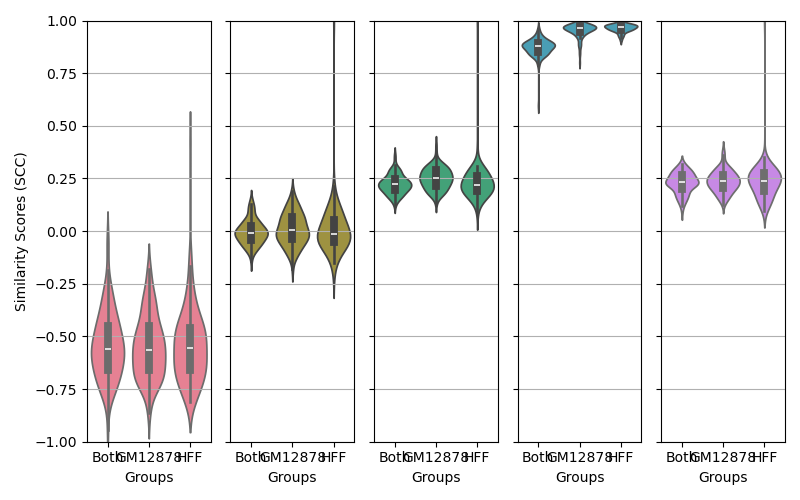
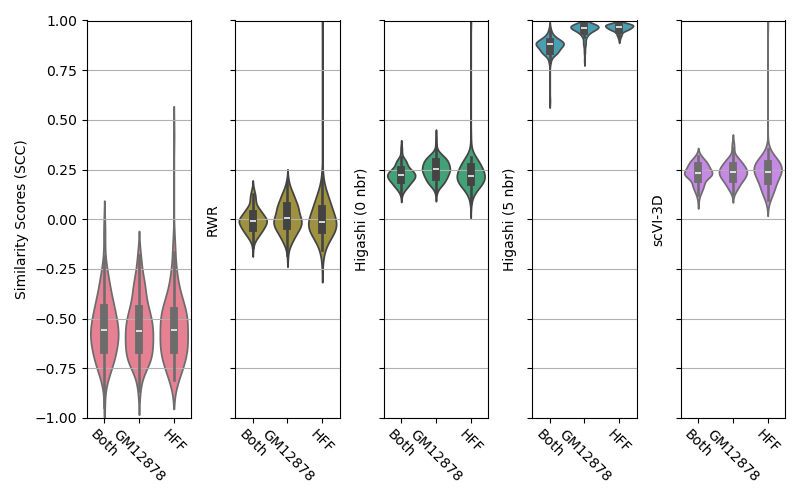
plots

diff --git a/experiments/2023-09-18/plot_SCC_2.py b/experiments/2023-09-18/plot_SCC_2.py
@@ -8,6 +8,7 @@ scVI_cools = "/project/compbio-lab/scHi-C/Kim2020/similarity_scores/scVI_cools"
 higashi_k0_cools = "/project/compbio-lab/scHi-C/Kim2020/similarity_scores/higashi_k0_cools"
 higashi_k5_cools =  "/project/compbio-lab/scHi-C/Kim2020/similarity_scores/higashi_k5_cools"
 dirs = [Kim2020_cools, rwr_cools, higashi_k0_cools, higashi_k5_cools,scVI_cools]
+imp_type_labels = ['Raw', 'RWR', 'Higashi (0 nbr)', 'Higashi (5 nbr)', 'scVI-3D']
 
 GM12878_HFF_pairs = "h0_GM12878_HFF_selected_pairs.txt"
 GM12878_pairs = "h0_GM12878_selected_pairs.txt"
@@ -81,9 +82,8 @@ for i, d in enumerate(dirs):
     sns.violinplot(all_violin_data,ax=ax, palette=[colors[i]]*3)                
     ax.set_ylim(-1, 1)  # Set y-axis limits to [-1, 3]
     ax.set_xticks(x_ticks)
-    ax.set_xticklabels(x_tick_labels)
-    ax.set_xlabel('Groups')
-    ax.set_ylabel('')
+    ax.set_xticklabels(x_tick_labels, rotation=-45)
+    ax.set_ylabel(imp_type_labels[i])
     ax.grid(axis='y')
     if i != 0:
         ax.set_yticklabels([])
